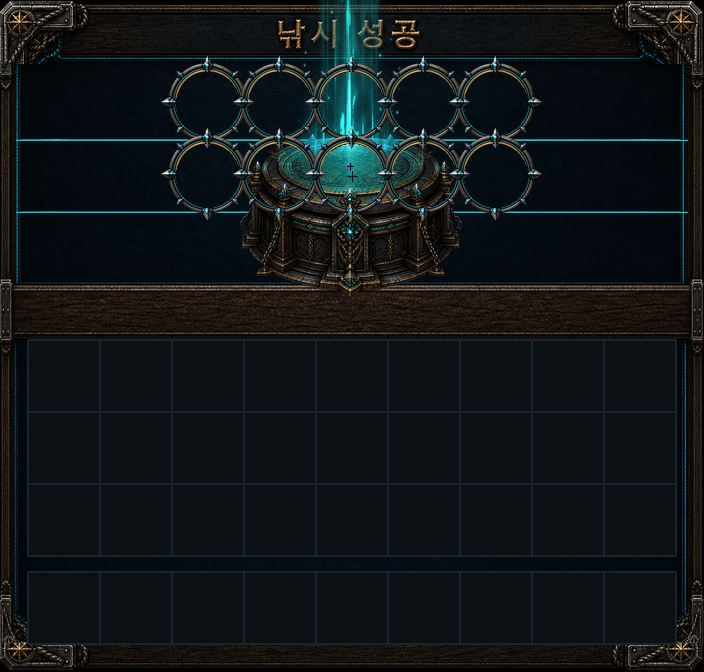
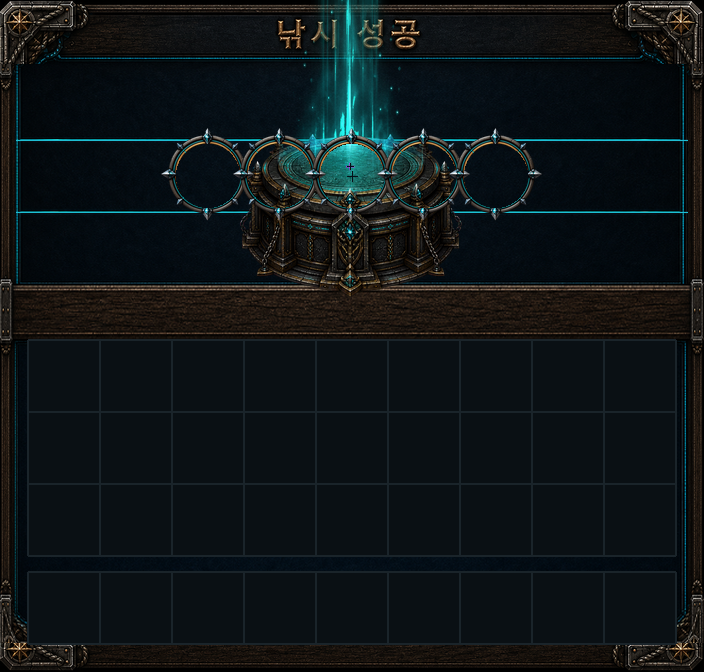
소켓 가운데줄 5칸만 + 제단 세로 예산 420x216 + 빌드타임 검사
- 소켓: 윗행 5칸 제거, 슬롯 11~15만. 낚시 결과가 그 이상 동시에 안 나온다.
- 제단 예산 420x216 확정. 1차 납품(260x360)이 세로로 길어 정보행과 나무 구분띠까지
  덮었다. 캔버스가 곧 세로 예산(위 108/아래 108)이고 빛기둥이 제목을 뚫으면 안 된다.
- 빌더가 예산 초과를 빌드 때 경고 — 인게임에서 발견하면 늦다.

diff --git a/gui-forge/build_fishing_success_bg.py b/gui-forge/build_fishing_success_bg.py
@@ -55,10 +55,14 @@ MARKER = (255, 0, 255)            # 제단 정렬 마커
 # ★소켓을 27칸 전부에 깔면 안 된다(2026-08-06 실측). 소켓 96px 이 칸 피치 72px 보다
 #   커서 링이 24px씩 겹쳐 벌집 격자처럼 뭉갠다. 그렇다고 소켓을 줄이면 안쪽 구멍도
 #   같이 줄어 아이템(64px)이 링을 덮는다 — 크기가 아니라 **배치**로 풀어야 한다.
-#   아이템이 실제로 들어가는 칸에만 깐다: 윗행 중앙 5칸(부가 어획) + 제단 5칸(주요 어획).
-#   나머지는 민무늬 패널로 두고, 아랫행은 정보 명판이라 소켓이 필요 없다.
-SOCKET_SLOTS = list(range(2, 7)) + list(range(11, 16))
+#   가운데 줄 5칸만. 낚시 결과가 그 이상 동시에 나오는 경우가 없어 더 깔 이유가 없다.
+SOCKET_SLOTS = list(range(11, 16))
 ALTAR_CENTER_SLOT = 13
+
+# ★제단 세로 예산 — 1차 납품(260x360)이 세로로 너무 길어 아래 정보행과 나무 구분띠까지
+#   다 덮었다. 위로 108 / 아래로 108 이 한계이고, 그걸 넘으면 게임에서 화면을 가린다.
+#   납품물이 규격을 어겼는지 **빌드 때** 잡는다 — 인게임에서 발견하면 이미 늦다.
+ALTAR_MAX = (420, 216)
 
 
 def slot_center(idx):
@@ -158,6 +162,9 @@ def main():
     ap_path = os.path.join(SRC, altar_name)
     if os.path.exists(ap_path):
         altar = Image.open(ap_path).convert("RGBA")
+        if altar.width > ALTAR_MAX[0] or altar.height > ALTAR_MAX[1]:
+            print(f"  ⛔ 제단 {altar_name} {altar.size} 가 예산 {ALTAR_MAX} 초과 — "
+                  f"게임에서 정보행/구분띠를 덮는다. 재작업 필요(미리보기는 그대로 진행)")
         m = find_marker(altar)
         cx, cy = slot_center(ALTAR_CENTER_SLOT)
         if m:

diff --git a/gui-forge/codex-brief.md b/gui-forge/codex-brief.md
@@ -10,7 +10,7 @@
 |---|---|---|---|
 | `bg_source.png` | **704 × 672** | **불투명** | 프레임 · 패널 · "낚시 성공" 제목 글자 |
 | `socket.png` | **96 × 96** | 투명 | 슬롯 소켓 **1개** |
-| `altar_<등급>.png` | **420 × 300** | 투명 | 중앙 **5칸 폭** 제단. 등급 9종 = 9장 |
+| `altar_<등급>.png` | **420 × 216** | 투명 | 중앙 **5칸 폭** 제단. 등급 9종 = 9장 |
 
 등급 9종: `E D C B A S M L G` (뒤로 갈수록 상위).
 **배경판·소켓은 등급 무관 1장씩**이고, 등급별로 갈리는 건 제단뿐이다.
@@ -43,17 +43,20 @@
 - **안쪽 64px 원형은 비워둘 것** — 거기 물고기가 앉는다.
 - 이웃 소켓과 12px씩 겹친다. 사슬처럼 이어져 보이는 건 **의도한 것.**
 
-## 제단 (420 × 300, 등급별 9장)
+## 제단 (420 × 216, 등급별 9장)
 
 ★**한 칸짜리 원형 제단이 아니라 5칸 폭 받침대다.** 낚시 결과는 물고기 한 마리가
 아니라 더블/트리플 + 낚시 재료 + 보물상자까지 **한 번에 3~4개**가 나온다.
 가이드의 **노란 상자(슬롯 11~15)** 를 덮는 가로로 긴 단상/제단으로 그릴 것.
 
-- 상판이 가로로 **최소 384px**(5칸)을 덮어야 한다. 가이드 노란 상자 = x 160~543.
-- 상판 **정중앙**(가이드 표시: x=351, y=176 자리)에 `#FF00FF` 순색 1px 십자 마커.
-  스크립트가 그 점을 가운데 칸 중심에 맞추고 마커는 지운다.
+- **캔버스 420 × 216 를 넘지 말 것.** 마커는 정중앙 `(210, 108)`.
+  ★이전 납품(260×360)은 세로로 너무 길어 아래 정보행과 나무 구분띠까지 다 덮었다.
+  캔버스가 곧 세로 예산이다 — 위로 108px, 아래로 108px이 전부다.
+- 상판이 가로로 **최소 384px**(5칸)을 덮어야 한다.
+- 마커 `#FF00FF` 순색 1px 십자 — 스크립트가 그 점을 가운데 칸 중심에 맞추고 지운다.
 - 소켓 5개가 상판 위에 얹히므로 **상판 윗면은 평평하고 저대비**로.
-- 빛기둥·발광은 위로 번져도 됨(투명 레이어라 안전).
+  상판 윗면은 마커보다 조금 아래(마커 기준 +24px 언저리)에 두면 소켓이 얹힌 것처럼 보인다.
+- 빛기둥은 캔버스 위쪽 끝까지만. **제목 글자를 뚫고 올라가면 안 된다.**
 
 ### 등급별 차이는 제단으로만
 프레임까지 등급별로 바꾸면 화면이 요란해지고 수정 비용이 9배가 된다.
